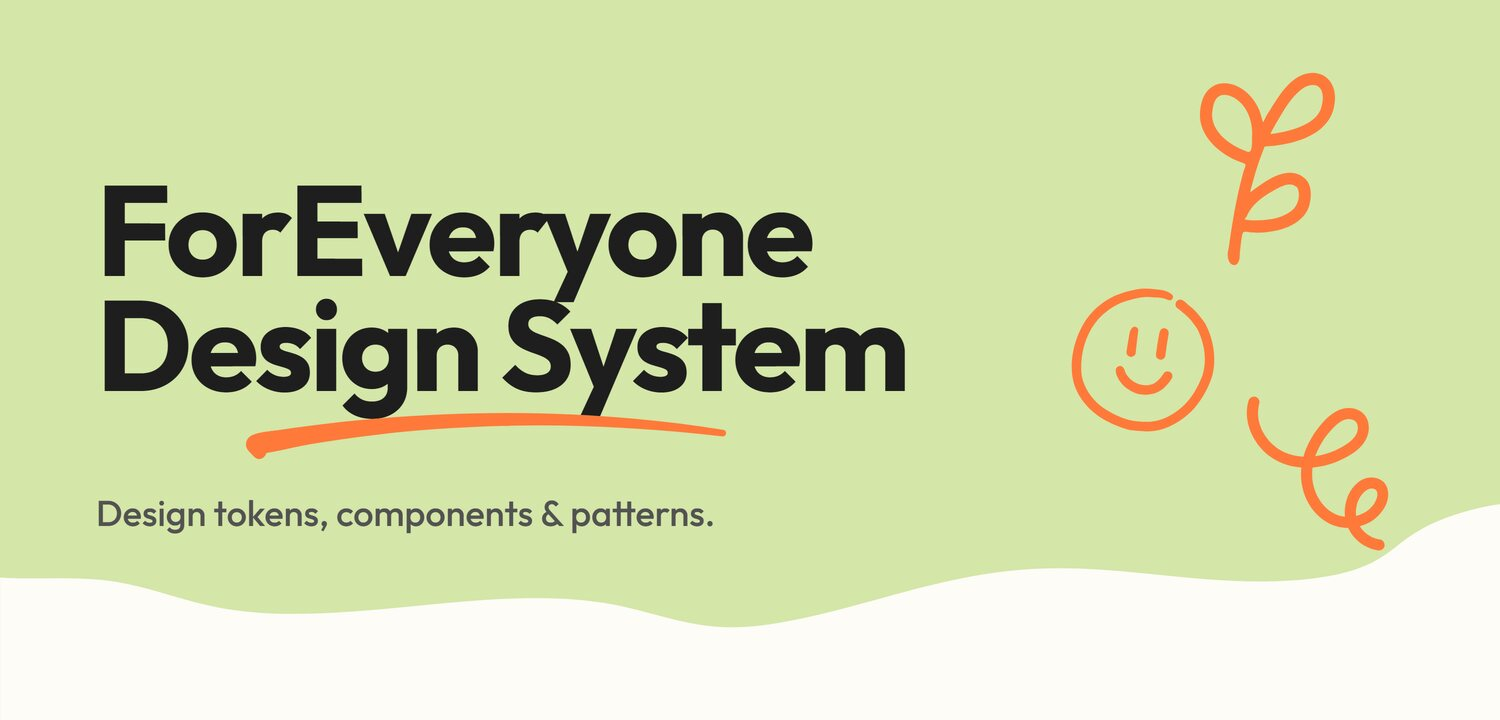
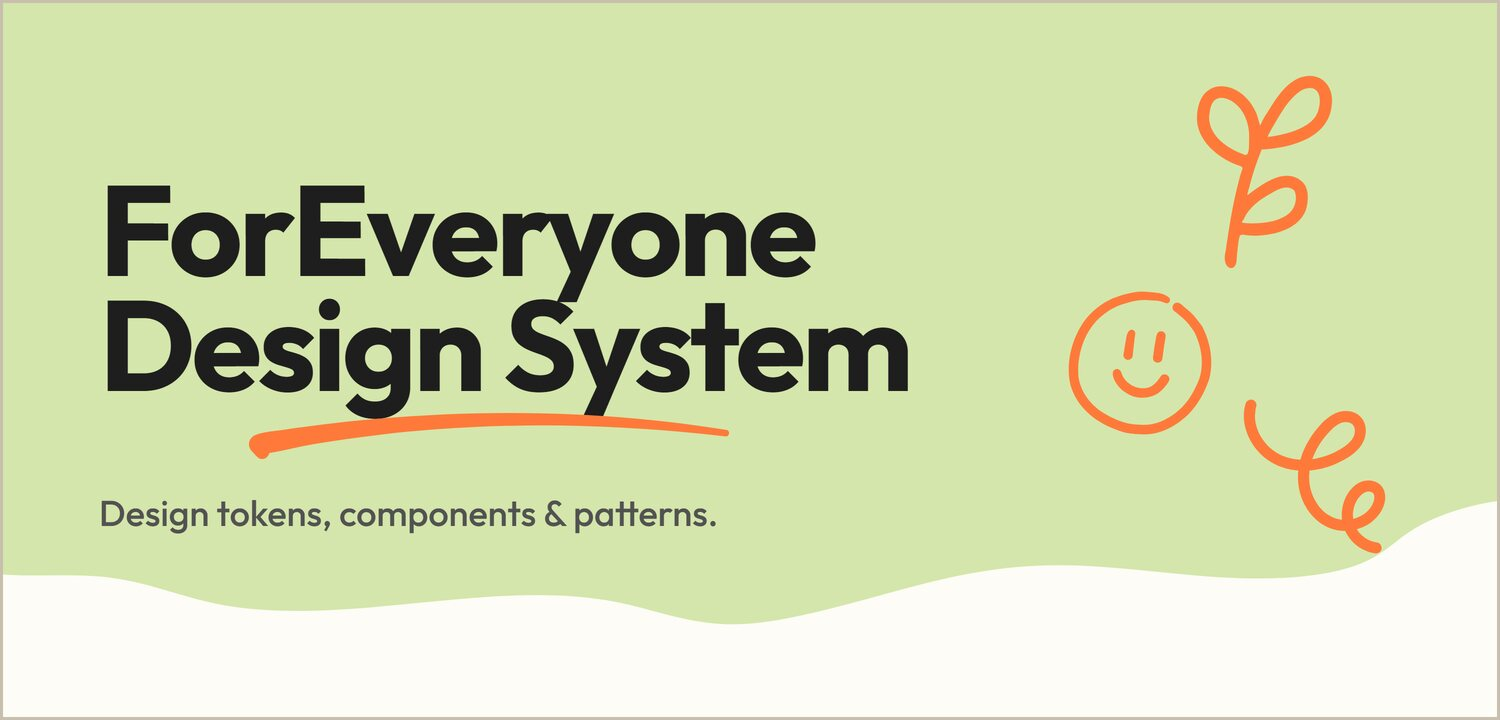
docs: regenerate the README hero cards with the inset border
All four at 1500x720 exactly, so the documented ratio and the byte-identity
between readme-hero.jpg and readme-hero-doodle-v1.jpg both hold. The social
cards are untouched: the border is gated on width, and they render at 1200.

File size moves from ~63 KB to ~69 KB; ASSETS.md updated to match.

diff --git a/prototype/public/images/ASSETS.md b/prototype/public/images/ASSETS.md
@@ -23,7 +23,7 @@ Recommended alt text (one sentence; describe activity and setting):
 - `workshop-pottery.jpg` Upcoming-workshop card (Arts and Crafts): from `Pottery_group.jpg`, cropped to 720×450 (mozjpeg q80).
 - `workshop-drawing.jpg` Upcoming-workshop card (Expression): from `Pottery_couple1.jpg`, cropped to 640×400 with a small tone lift (mozjpeg q82).
 - `social-preview.jpg` Open Graph / Twitter / GitHub social card, `doodle-v1` composition: "ForEveryone Design System" over a Lime Green field, an orange doodle underline, sprout/smiley/swirl marks on the right, a Warm White wave band, at 1200x630 (1.91:1) per OG best practice (~53 KB). No wordmark lockup: the headline already carries the brand name. Also upload this file as the GitHub repo social preview (Settings → General → Social preview).
-- `readme-hero.jpg` README hero on GitHub, same composition at 1500x720 (~2.08:1, ~63 KB). Carries a 3px inset Warm Grey Light border so the card separates from GitHub's white page, where the Warm White wave band along its bottom edge would otherwise dissolve into the background; the border is applied in the generator to every target at least 1500px wide, so the 1200px social card deliberately has none (GitHub strips `style` from markdown-embedded HTML, so it cannot be a CSS border on the `<img>`). Regenerate both cards (design-system-driven HTML rendered with Chromium) via `node scripts/build-og-card.mjs [variant] [outDir]`, then convert the temp PNGs to JPG with ImageMagick (`-resize`, `-quality 84 -strip`). Variants: `doodle` (shipped composition), `blobs` (default flag value, layered brand blobs with a swatch row), `ramp` (OKLCH token scales), `type` (type-scale specimen). Colours are read from the generated `css/custom-properties.css`, so a token change flows into the cards; never hardcode hex in the generator.
+- `readme-hero.jpg` README hero on GitHub, same composition at 1500x720 (~2.08:1, ~69 KB). Carries a 3px inset Warm Grey Light border so the card separates from GitHub's white page, where the Warm White wave band along its bottom edge would otherwise dissolve into the background; the border is applied in the generator to every target at least 1500px wide, so the 1200px social card deliberately has none (GitHub strips `style` from markdown-embedded HTML, so it cannot be a CSS border on the `<img>`). Regenerate both cards (design-system-driven HTML rendered with Chromium) via `node scripts/build-og-card.mjs [variant] [outDir]`, then convert the temp PNGs to JPG with ImageMagick (`-resize`, `-quality 84 -strip`). Variants: `doodle` (shipped composition), `blobs` (default flag value, layered brand blobs with a swatch row), `ramp` (OKLCH token scales), `type` (type-scale specimen). Colours are read from the generated `css/custom-properties.css`, so a token change flows into the cards; never hardcode hex in the generator.
 
 - `guide-og-doodle.jpg` Open Graph / social card for the **Belonging Guide** funnel pages on foreveryone.berlin (`/guide`, `/guide-confirmed`), at 1200x630 (~36 KB). Lime Green field, "Belonging in Berlin" over an orange doodle underline, sprout/smiley/swirl marks on the right, Warm White wave band with the horizontal lockup. This is a **website** card, not a design-system card: it is tracked here so the funnel pages have a reviewed source, but it does not replace `social-preview.jpg`. Regenerate with `node prototype/scripts/build-guide-og.mjs [doodle|photo|blobs|all] [outDir]`; output defaults to the gitignored `.artifacts/images/`. Copy deck lives in the `COPY` object at the top of that script. Renders in Outfit, the documented Filson Pro stand-in.
 
